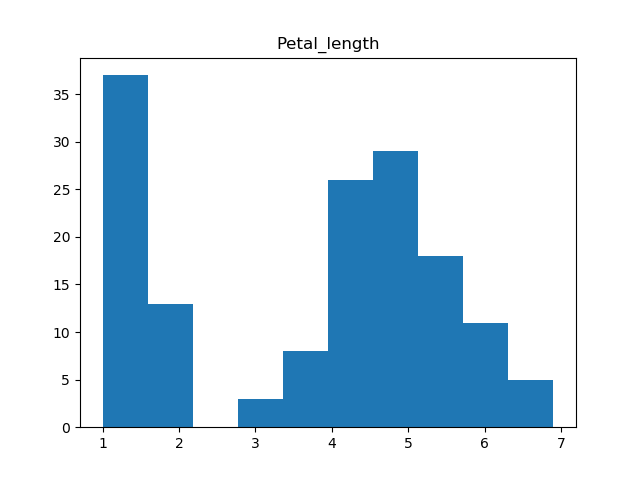
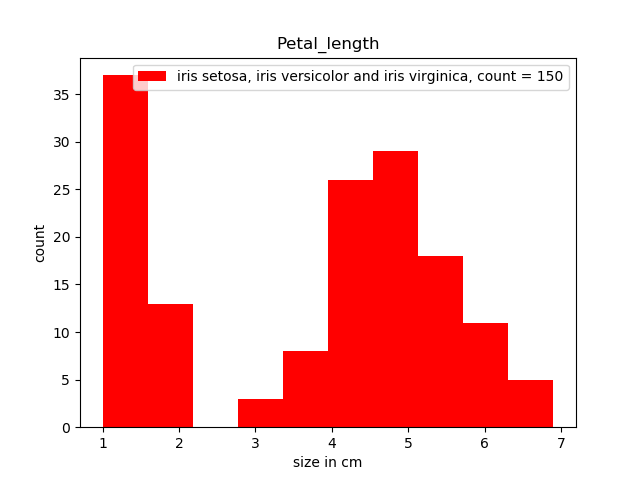
updating histograms with legnds, defined x-axis, defined y-axis, and color of each variable

diff --git a/analysis.py b/analysis.py
@@ -1,5 +1,6 @@
 # Adam Shaat
-# A program to analyse the Fisher's Iris flower datasets.
+# A program to analyse the Fisher's Iris flower datasets
+
 
 import numpy as np # importing numpy
 import pandas as pd # importing pandas library
@@ -18,13 +19,16 @@ df = pd.read_csv("https://raw.githubusercontent.com/G00387867/pands-project/mast
 # https://github.com/RitRa/Project2018-iris
 # analysing the dataset's main datapoints
 
-summary = df.describe()
+summary = df.describe() #showing summary of the data set
 summary = summary.transpose()
 summary = summary.head()
 
 # Specifications for petal_length variable:
 
-plt.hist(df["petal_length"]) # creating histogram
+plt.hist(df["petal_length"], label = "iris setosa, iris versicolor and iris virginica, count = 150", color ='r') # creating histogram
+plt.legend() # adding legend
+plt.xlabel("size in cm") # defining x-axis
+plt.ylabel("count") # defining y-axis
 plt.title("Petal_length") # adding title 
 plt.savefig("Petal_length.png") # saving the graphs
 plt.clf()
@@ -39,7 +43,10 @@ petal_length.describe().to_string("Summary_petal_length.txt", index = True, head
 # Specifications for petal_width variable:
 
 
-plt.hist(df["petal_width"]) # creating histogram
+plt.hist(df["petal_width"], label = "iris setosa, iris versicolor and iris virginica, count = 150", color ='g') # creating histogram
+plt.legend() # adding legend
+plt.xlabel("size in cm") # defining x-axis
+plt.ylabel("count") # defining y-axis
 plt.title("Petal_width") # adding title 
 plt.savefig("Petal_width.png") # saving the graph
 plt.clf()
@@ -54,7 +61,10 @@ petal_width.describe().to_string("Summary_petal_width.txt", index = True, header
 # Specifications for sepal_length variable:
 
 
-plt.hist(df["sepal_length"]) # creating histogram
+plt.hist(df["sepal_length"], label = "iris setosa, iris versicolor and iris virginica, count = 150", color ='b') # creating histogram
+plt.legend() # adding legend
+plt.xlabel("size in cm") # defining x-axis
+plt.ylabel("count") # defining y-axis
 plt.title("Sepal_length") # adding title 
 plt.savefig("Sepal_length.png") # saving the graph
 plt.clf()
@@ -69,7 +79,10 @@ sepal_length.describe().to_string("Summary_sepal_length.txt", index = True, head
 # Specifications for sepal_width variable:
 
 
-plt.hist(df["sepal_width"]) # creating histogram
+plt.hist(df["sepal_width"], label = "iris setosa, iris versicolor and iris virginica, count = 150", color ='m') # creating histogram
+plt.legend() # adding legend
+plt.xlabel("size in cm") # defining x-axis
+plt.ylabel("count") # defining y-axis
 plt.title("Sepal_width") # adding title 
 plt.savefig("Sepal_width.png") # saving the graph
 plt.clf()
@@ -83,7 +96,10 @@ sepal_width.describe().to_string("Summary_sepal_width.txt", index = True, header
 
 # Specifications for Type variable:
 
-plt.hist(df["Type"]) # creating histogram
+plt.hist(df["Type"], label = "iris setosa, iris versicolor and iris virginica, count = 150", color ='y') # creating histogram
+plt.legend() # adding legend
+plt.xlabel("size in cm") # defining x-axis
+plt.ylabel("count") # defining y-axis
 plt.title("Type") # adding title 
 plt.savefig("Type.png") # saving the graph
 plt.clf()
@@ -95,11 +111,11 @@ Type = df["Type"]
 Type.describe().to_string("Summary_type.txt", index = True, header = True)
 
 
-# creating a scatter plot for each pair of variables by using pairplot function from seaborn library
+# creating a pairplot for each pair of variables by using pairplot function from seaborn library
 # In order to investigate in pairs I have refereed to following analysis: https://github.com/RitRa/Project2018-iris/blob/master/Project%2B2018%2B-%2BFishers%2BIris%2Bdata%2Bset%2Banalysis.ipynb
 
 sns.pairplot(df, hue = "Type", palette = "cubehelix",  markers = ["+", "s", "H"])
-plt.savefig("Pair_Scatter.png")
+plt.savefig("Pairplot.png")
 plt.clf()
 
 
